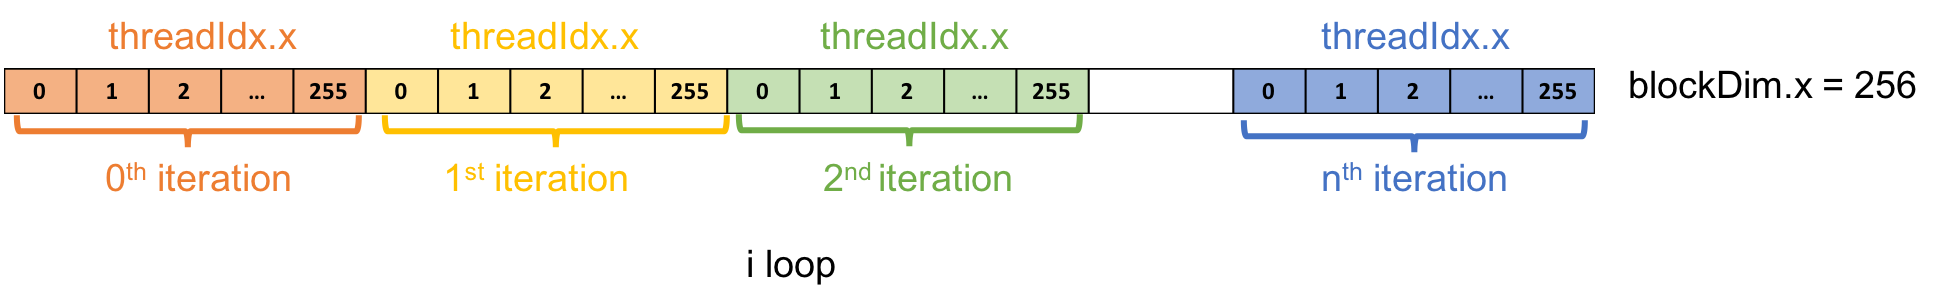
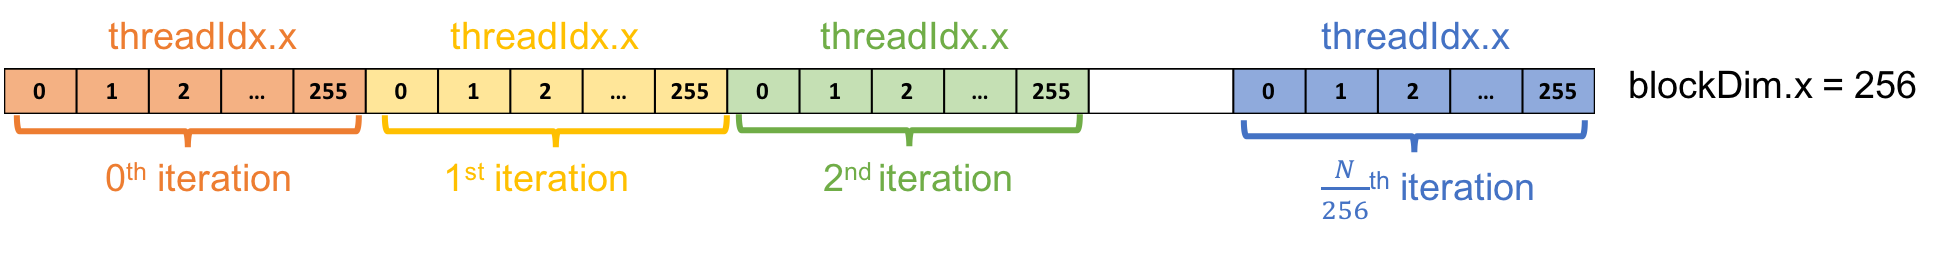
Update tutorial 2

diff --git a/lab02/README.md b/lab02/README.md
@@ -2,11 +2,11 @@
 
 ## Introduction 
 
-In [tutorial 01](../lab01/), we implemented vector addition in CUDA. However, the program runs using only one GPU thread. The strength of GPU lies in its massive parallelism. In this tutorial, we will explore how to implement parallel program for GPUs. 
+In [tutorial 01](../lab01/), we implemented vector addition in CUDA using only one GPU thread. However, the strength of GPU lies in its massive parallelism. In this tutorial, we will explore how to exploit GPU parallelism. 
 
 ## Going parallel
 
-CUDA use a kernel execution configuration `<<<...>>>` to tell CUDA runtime how many threads to launch on GPU. Threads are organized in a group called "*thread block*", where all threads inside the same thread block will run on the same multiprocessor. Kernel can launch multiple thread blocks, organized into a "*grid*" structure. 
+CUDA use a kernel execution configuration `<<<...>>>` to tell CUDA runtime how many threads to launch on GPU. CUDA organizes threads into a group called "**_thread block_**". Kernel can launch multiple thread blocks, organized into a "**_grid_**" structure. 
 
 The syntax of kernel execution configuration is as follows 
 
@@ -16,43 +16,40 @@ The syntax of kernel execution configuration is as follows
 
 Which indicate that a kernel launches with a grid of `M` thread blocks. Each thread block has `T` parallel threads. 
 
-## Exercise 1: Parallelizing vector addition using thread block level parallelism
+## Exercise 1: Parallelizing vector addition using multithread
 
-In this exercise, we will parallelize vector addition from tutorial 1 ([`vector_add.cu`](./vector_add.cu)) using a thread block with 256 threads. The new kernel execution configuration is shown below. 
+In this exercise, we will parallelize vector addition from tutorial 01 ([`vector_add.cu`](./vector_add.cu)) using a thread block with 256 threads. The new kernel execution configuration is shown below. 
 
 ```C
 vector_add <<< 1 , 256 >>> (out, d_a, b, N);
 ```
 
-CUDA provides built-in variables for accessing thread information. In this exercise, we will use two of them: `threadIdx.x` and `blockIdx.x`. `threadIdx.x` stores the index of current thread in the block and `blockDim.x` stores the size of thread block (number of threads in the thread block). 
+CUDA provides built-in variables for accessing thread information. In this exercise, we will use two of them: `threadIdx.x` and `blockIdx.x`. 
 
-For the `vector_add()` configuration, the value of `blockDim.x` is 256. For `i`-th threads, the value of `threadIdx.x` is `i`. The value of `i` ranges from 0 to 255. 
+* `threadIdx.x` contains the index of the thread within the block 
+* `blockDim.x` contains the size of thread block (number of threads in the thread block). 
+
+For the `vector_add()` configuration, ะhe value of `threadIdx.x` ranges from 0 to 255 and the value of `blockDim.x` is 256.
 
 ### Parallelizing idea
 
-Recalls the kernel of single thread version in [`vector_add.cu`](./vector_add.cu)
+Recalls the kernel of single thread version in [`vector_add.cu`](./vector_add.cu). Notes that we modified the `vector_add()` kernel a bit to make the explanation easier. 
 
 ```C
 __global__ void vector_add(float *out, float *a, float *b, int n) {
-    for(int i = 0; i < n; i++){
+    int index = 0;
+    int stride = 1
+    for(int i = index; i < n; i += stride){
         out[i] = a[i] + b[i];
     }
 }
 ```
 
- In this implementation, one thread iterates through and computes the element-wise summation of the whole array. With a thread block of 256 threads, we can perform the summation of 256 elements simultaneously instead of one by one. 
+In this implementation, only one thread computes vector addition by iterating through the whole arrays. With 256 threads, the addition can be spread across threads and computed simultaneously. 
 
-The main idea is to virtually split the array into subarrays, where each subarray contains 256 elements. Instead of iterate through each element, the loop iterates through each subarray. The summation of the subarray is computed simultaneously by assigning the `i`-th thread to the `i`-th element of the subarray. 
+For the `k`-th thread, the loop starts from `k`-th element and iterates through the array with a loop `stride` of 256. For example, in the 0-th iteration, the `k`-th thread computes the addition of `k`-th element. In the next iteration, the `k`-th thread computes the addition of `(k+256)`-th element, and so on. Following figure shows an illustration of the idea. 
 
 ![parallel thread](./01_parallel_thread.png "parallel thread")
-
-<!--
-When converting this idea back to the whole array, we get the following 
-* In the `0`-th iteration, the `i`-th thread computes the summation of `a[i]` and `b[i]`. 
-* In the `1`-st iteration, the `i`-th thread computes the summation of `a[i + 256]` and `b[i + 256]`. 
-* ...
-* In the `n`-th iteration, the `i`-th thread computes the summation of `a[i + 256 * n]` and `b[i + 256 * n]`. 
--->
 
 **EXERCISE: Try to implement this in `vector_add_thread.cu`**
 
@@ -73,12 +70,26 @@ $> nvprof ./vector_add_thread
 
 See the solution in [`solutions/vector_add_thread.cu`](./solutions/vector_add_thread.cu)
 
+## Exercise 2: Adding more thread blocks
 
-## Exercise 2: Using whole GPU
+CUDA GPUs have several parallel processors called **_Streaming Multiprocessors_** or **_SMs_**. Each SM consists of multiple parallel processors and can run multiple concurrent thread blocks. To take advantage of CUDA GPUs, kernel should be launched with multiple thread blocks. This exercise will expand the vector addition from exercise 1 to uses multiple thread blocks. 
 
+Similar to thread information, CUDA provides built-in variables for accessing block information. In this exercise, we will use two of them: `blockIdx.x` and `gridDim.x`. 
 
+* `blockIdx.x` contains the index of the block with in the grid
+* `gridDim.x` contains the size of the grid
 
+### Parallelizing idea
 
+We will use multiple thread blocks to create `N` threads and use each thread to compute an addition of each elements. In this exercise, we will use 256 threads per thread block like Exercise 1. Assumes that `N` is divisible by 256, we need `N/256` blocks to have at least `N` threads. Following is an illustration of the parallelization idea. 
+
+![parallel block](./02_parallel_block.png "parallel block")
+
+To assign a thread to a specific element, we need a unique index for each thread. We will use variable `tid` to store this index, which can be computed as follow
+
+```C
+int tid = blockIdx.x * blockDim.x + threadIdx.x;
+```
 
 ## Wrap up
 

diff --git a/lab01/README.md b/lab01/README.md
@@ -2,7 +2,7 @@
 
 ## Introduction 
 
-This tutorial is an introduction for writing your first CUDA C program. We will use CUDA runtime API throughout this tutorial. 
+This tutorial is an introduction for writing your first CUDA C program and offload computation to a GPU. We will use CUDA runtime API throughout this tutorial. 
 
 ## A quick comparison between CUDA and C
 
@@ -42,9 +42,9 @@ int main() {
 </tr>
 </table>
 
-The major difference between C and CUDA implementation is `__global__` specifier and `<<<...>>>` syntax. The ```__global__``` specifier indicates a function that runs on device (GPU). The function can be called through host code, e.g. the `main()` function in the example. The function is also known as "*kernels*". 
+The major difference between C and CUDA implementation is `__global__` specifier and `<<<...>>>` syntax. The ```__global__``` specifier indicates a function that runs on device (GPU). Such function can be called through host code, e.g. the `main()` function in the example, and is also known as "*kernels*". 
 
-When a kernel is called, its execution configuration is provided through `<<<...>>>` syntax, e.g. `cuda_hello<<<1,1>>>()` from the example. In CUDA term, this is called "*kernel launch*". We will discuss about the parameter `(1,1)` later in this tutorial. 
+When a kernel is called, its execution configuration is provided through `<<<...>>>` syntax, e.g. `cuda_hello<<<1,1>>>()`. In CUDA terminology, this is called "*kernel launch*". We will discuss about the parameter `(1,1)` later in this [tutorial 02](../lab02/). 
 
 ## Compiling CUDA programs
 
@@ -54,7 +54,7 @@ Compiling a CUDA program is similar to C program. NVIDIA provides a CUDA compile
 $> nvcc hello.cu -o hello
 ```
 
-For the latest version of `nvcc`, you might see following warning when compiling a CUDA program using above command
+You might see following warning when compiling a CUDA program using above command
 
 ```
 nvcc warning : The 'compute_20', 'sm_20', and 'sm_21' architectures are deprecated, and may be removed in a future release (Use -Wno-deprecated-gpu-targets to suppress warning).
@@ -66,7 +66,7 @@ This warning can be ignored as of now.
 
 The CUDA hello world example does nothing, and even if the program is compiled, nothing will show up on screen. To get things into action, we will looks at vector addition. 
 
-Following is an example vector addition implemented in C ([`./vector_add.c`](./vector_add.c)). The example computes the addtion of two vectors stored in array `a` and `b` and put the result in array `out`.
+Following is an example of vector addition implemented in C ([`./vector_add.c`](./vector_add.c)). The example computes the addtion of two vectors stored in array `a` and `b` and put the result in array `out`.
 
 ```C
 #define N 10000000
